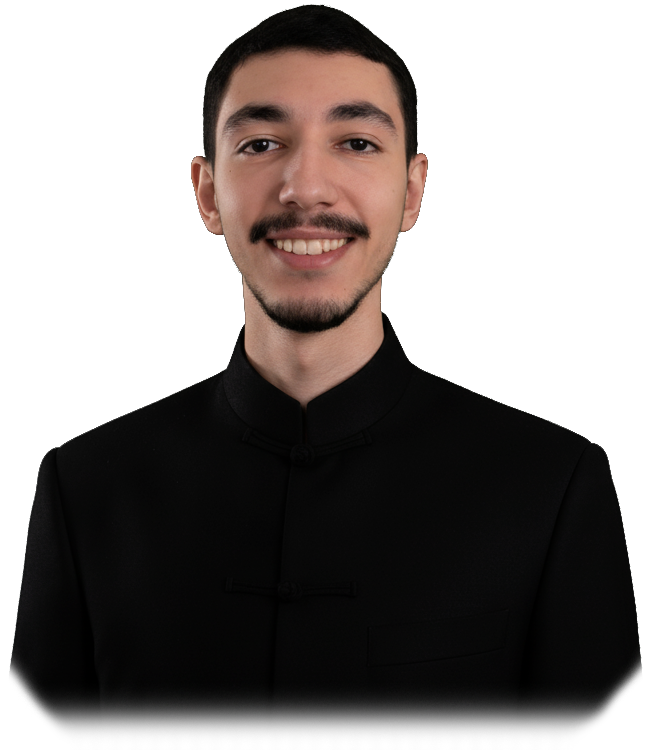
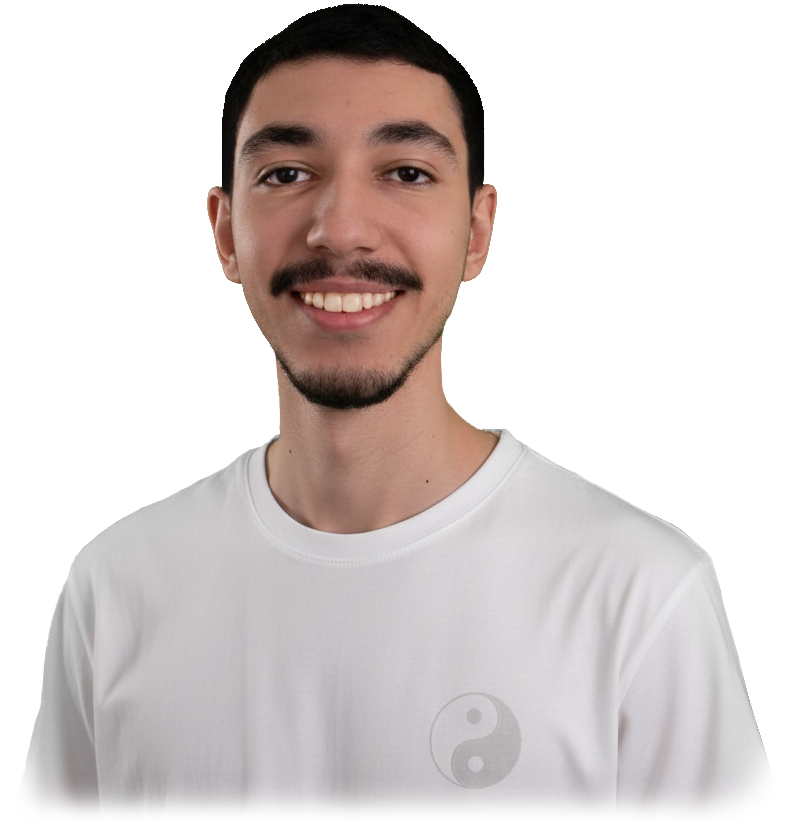
feat(css): adjust image dimensions and update the picture of myself

diff --git a/src/pages/Welcome.jsx b/src/pages/Welcome.jsx
@@ -31,7 +31,7 @@ const items = ["FelipeNavas", "-SoftwareDev", "-ProblemSolver", "-SystemAnalyst"
             </div>
           ))}
         </div>
-        <div className='justify-items-center lg:w-96 md:w-72 w-80 mx-14 lg:my-0 md:my-12 my-16'>
+        <div className='justify-items-center lg:w-1/3 md:w-1/2 w-80 mx-14 lg:my-0 md:my-12 my-16'>
           <img src={my_photo} className="animate-me"/>
         </div>
       </div>
